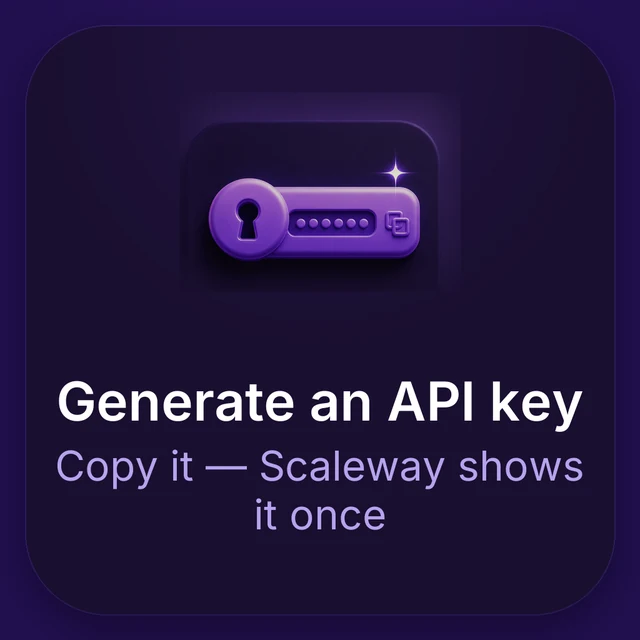
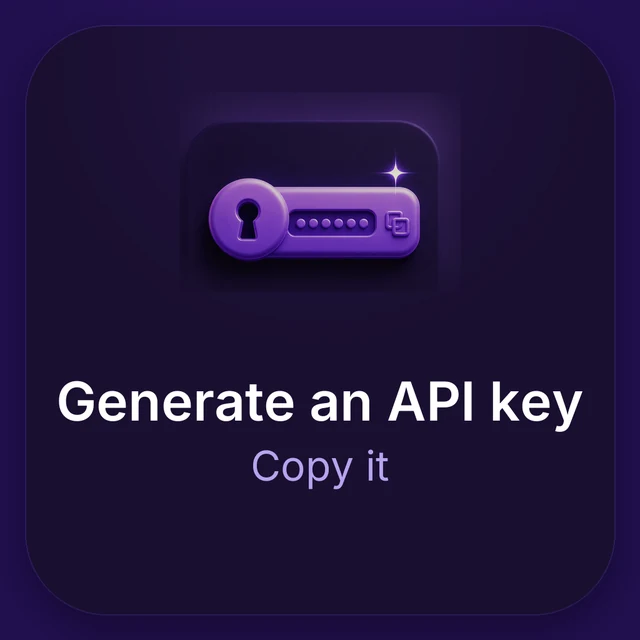
Tighten the download page
- Drop the key-handling paragraph under the setup strip; it belongs in the app,
  where the key is actually generated.
- Card three reads just 'Copy it'.
- The cost caveat moves above the installers, so it is read before the button.
- Drop the footer paragraph that restated the header tagline.
- The name line now gives a language for both halves.

Changed region(s): [[0.0938, 0.6875, 0.6875, 0.8438], [0.7188, 0.6875, 0.9062, 0.75]]

diff --git a/index.html b/index.html
@@ -168,16 +168,6 @@
     .sums td.file { white-space: nowrap; padding-right: 16px; }
     .sums code { font-family: ui-monospace, SFMono-Regular, Menlo, monospace; word-break: break-all; color: var(--muted); }
 
-    /* The half of setup that a caption cannot carry. Sits under the strip and
-       inside the text column, so it reads as its footnote, not a new section. */
-    .steps-note {
-      margin: -18px 0 32px;
-      color: var(--muted);
-      font-size: 14px;
-      line-height: 1.65;
-    }
-    .steps-note strong { color: var(--text); }
-
     footer { margin-top: 48px; text-align: center; color: var(--muted); font-size: 13px; line-height: 1.7; }
     footer a { color: var(--accent-2); }
     footer .legal { margin: 14px 0 6px; }
@@ -205,18 +195,17 @@
         <span class="step-n">2</span>
       </li>
       <li class="step">
-        <span class="step-art"><img src="steps/genKey.webp" alt="Generate an API key. Copy it — Scaleway shows it once" width="640" height="640" loading="lazy" /></span>
+        <span class="step-art"><img src="steps/genKey.webp" alt="Generate an API key. Copy it" width="640" height="640" loading="lazy" /></span>
         <span class="step-n">3</span>
       </li>
     </ol>
 
-    <p class="steps-note">
-      <strong>Scaleway shows the key once</strong>, at the moment you create it —
-      copy it before you leave that page. Nobody can retrieve it afterwards, not
-      Scaleway and not us; if it is lost you simply generate another. Then paste
-      it into Sovatela: it is the first thing the app asks for, and it goes
-      straight into your device's keychain. This app has no server of its own for
-      it to reach.
+    <p class="notice">
+      <strong>Free and open source — but you'll need a paid Scaleway key.</strong>
+      Sovatela has no AI of its own: it uses your own Scaleway account, and
+      <strong>Scaleway bills you directly</strong> for what you use — typically a
+      few cents a day for ordinary chat. Sovatela never handles payment and takes
+      no cut, and the app shows a running cost estimate on your device.
     </p>
 
     <main class="downloads" id="downloads">
@@ -251,14 +240,6 @@
       </a>
     </main>
 
-    <p class="notice">
-      <strong>Free and open source — but you'll need a paid Scaleway key.</strong>
-      Sovatela has no AI of its own: it uses your own Scaleway account, and
-      <strong>Scaleway bills you directly</strong> for what you use — typically a
-      few cents a day for ordinary chat. Sovatela never handles payment and takes
-      no cut, and the app shows a running cost estimate on your device.
-    </p>
-
 
     <p class="secondary">
       Also available: <a href="https://github.com/jacobla1/sovatela/releases/download/v1.3.1/Sovatela_1.3.1_x64_en-US.msi">Windows .msi</a> (for managed deployment) ·
@@ -288,10 +269,6 @@
     </details>
 
     <footer>
-      <p>
-        Sovatela talks to <strong>GLM-5.2</strong>, Z.ai's open model hosted in France by Scaleway.
-        You bring your own Scaleway key; it never leaves your device.
-      </p>
       <p class="legal">
         <a href="/accessibility">Accessibility</a>
       </p>
@@ -301,7 +278,7 @@
         <a href="https://github.com/jacobla1/sovatela">Source on GitHub</a>
       </p>
       <p class="name-note">
-        <strong>Sovatela</strong> — <em>sova</em>, the owl, for wisdom;
+        <strong>Sovatela</strong> — from <em>sova</em>, Slavic for owl, and
         <em>tutela</em>, Latin for guardianship.
       </p>
       <!-- Name only the marks this page actually uses. Ollama was named here
